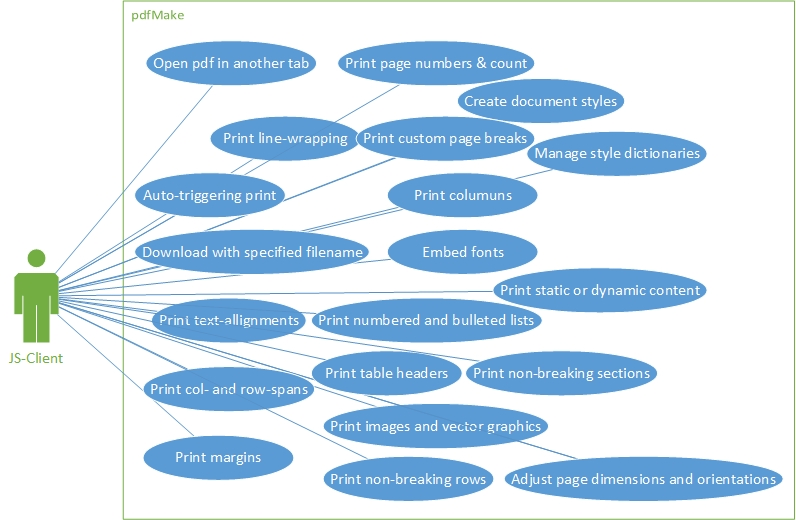
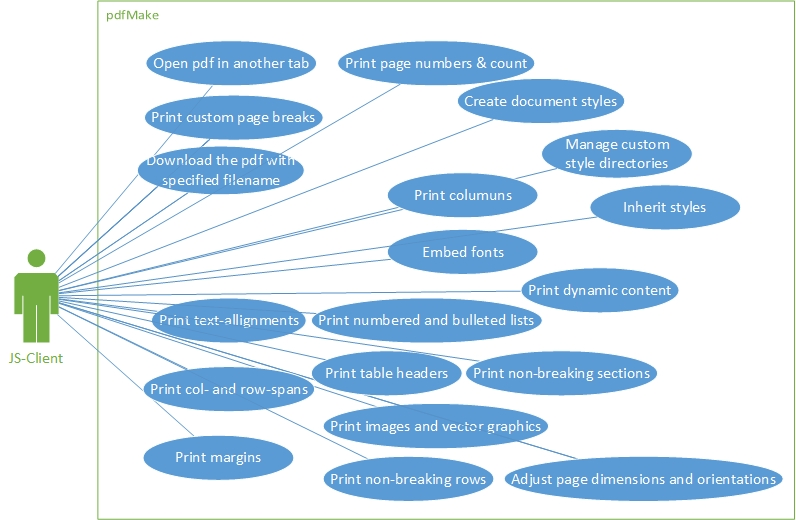
Completed first task, corrected use cases, smaller corrections

diff --git a/ESOF-Docs/secondassignment.md b/ESOF-Docs/secondassignment.md
@@ -1,22 +1,22 @@
-##2. Assignment: Requirements Elicitation##
+#2. Assignment: Requirements Elicitation#
 
-#a) Requirements: Introduction, Purpose/Scope, and Description#
-Requirement engineering (RE) is the process of studying user needs, which are at first mostly vaguely defined, and transforming them into a clear statement and understanding of a task, which must be fulfilled by the to be developed software, in order to fully satisfy the specific user need.
-The purpose of RE is basically to bridge the business and the software world & language and structuring the tasks to be done in the whole software development process.
+##a) Requirements: Introduction, Purpose/Scope, and Description##
+Requirement engineering (RE) is the process of studying user needs, which are at first mostly vaguely defined, and transforming them into a clear statement and understanding of a task, which must be fulfilled by the to be developed software, in order to fully satisfy the specific user need. So the purpose of RE is basically to bridge the business and the software world & language and to structure the tasks that have to be done during the development process. This is done by transforming the elicted business and user requirements in to specific system and software requirements.
 
+RE in open source projects differ in some ways from the classical software projects, in which a face to face communication between a client and the developers exists, since there is no specific client. Therefore we assume the original developers of pdfmake saw or had needs for a solution like pdfmake and "elicted" the requirements by theirself and still do. Further functionality requests and issues are posted in the Github 'issues' forum of the project, which can then be taken care of by any willing contributor. Through labels the requests then can be flagged as 'answered', 'won't fix' etc. to manage the requirements.
 
-#b) Specific Requirements and Features (Functional and Non-Functional requirements) #
+##b) Specific Requirements and Features (Functional and Non-Functional requirements) ##
 
-##Functional Requirements##
+###Functional Requirements###
 Functional requirement define what a sysytem is supposed to do like calculations, technical details, data manipulation and processing and other specific functionalities.
 
-When it comes to functional requirements, it's key that the system is able to do a number of functions related to created pdf file, such as:
+When it comes to functional requirements, it's key that the system is able to do a number of functions related to creating a pdf file, such as:
 * being able to open it in the browser in a new tab
-* print it and download it onto the user's PC.
-The system should create an html doc out of the user's input or out of a text file.
-It needs to allow a certain level of customisation, using user-defined styles.
+* print it and download it onto the user's PC
+* it should create an html doc out of the user's input or out of a text file
+* allow the user to use user-defined styles
 
-In terms of customisation, it needs to:  
+In terms of customization, it needs to:  
 * allow the printing of page numbers
 * allow the printing of custom page breaks
 * allow the printing of static/dynamic content
@@ -30,19 +30,21 @@ In terms of customisation, it needs to:
 * allow the management of document styles
 * allow adjustments to be made to the page's dimensions and orientation.
 
-##Non-Functional Requirements##
+###Non-Functional Requirements###
 Non-functional requirements define how the system is supposed to be, along with its qualities.
 
-In pdfmake the system should be client-sided in its implementation. The printing function should be auto-triggering.
-The user should be able to create PDFs using a simplified, object oriented language, which will be converted into html before it is printed.
-The project should be open source, and allow for many new features to be continuously implemented by various members.
-Finally, it should be easy for other developers to implement this system in their own projects.
+* the system should be client-sided in its implementation
+* the system should automatically take care of line wrapping (breaking lines when at the border of the document / table)
+* the printing function should be auto-triggering
+* the user should be able to create PDFs using a simplified, object oriented language, which will be converted into html before it is printed
+* the project should be open source, and allow for many new features to be continuously implemented by various members
+* it should be easy for other developers to implement this system in their own projects
 
-#c) Use Cases #
+##c) Use Cases ##
 
 ![Use Cases](https://github.com/joaopedrofump/pdfmake-1/blob/master/ESOF-Docs/Pdfmake_usecase.jpg)
 
-#d) Domain Model #
+##d) Domain Model ##
 
 ![Domain Model](https://github.com/joaopedrofump/pdfmake-1/blob/master/ESOF-Docs/Pdfmake_domainmodel.jpg)
 
@@ -54,10 +56,10 @@ In the domain model we defined 4 classes:
 * Printer
 * PDF
 
-The HTML document is the starting point, it all starts with an HTML web page. In the end, the purpose of the library is to make possible to print web pages directly from the browser making use of the functions of the library. Therefore, the HTML class has its attributes like paragraphs, tables, headers, divs, etc.
+The **HTML document** class is the starting point, it all starts with an HTML web page. In the end, the purpose of pdfmake is to enable printing web pages directly from the browser making use of the functions of pdfmake. Therefore, the HTML class has  attributes like paragraphs, tables, headers, divs, etc.
 
-The second class is the printer, the name we gave to define the JS library which provide functions to print HTML documents in PDF format. The attributes of the printer are all the functions at the core of the library which grabs the HTML parts, the styles defined and transform the HTML document in a PDF document. The printer can generate the PDF in three different ways: open it directly in the browser, send it to the physical printer and generate a file to be downloaded.
+The second class is the **Printer**, the name we gave to define the 'JS library' which provides those functions to print HTML documents in PDF format. The attributes of the printer are all the functions at the core of the library which grabs the HTML parts, the styles defined and transform the HTML document in a PDF document. The printer can generate the PDF in three different ways: open it directly in the browser, send it to the physical printer and generate a file to be downloaded.
 
-The third class is the STYLE class. The style is related to the printer in a sense that the printer uses a certain number of styles to generate the PDF from the HTML. For instance, we can relate a header with a specific style, a paragraph to another one. These styles are dictionaries that can map HTML elements to styles (a little bit like CSS does).
+The third class is the **Style** class. The style is related to the printer in a sense that the printer uses a certain number of styles to generate the PDF from the HTML. For instance, we can relate a header with a specific style, a paragraph to another one. These styles are dictionaries that can map HTML elements to styles (a little bit like CSS does).
 
-The last class is the PDF file. This class is the final result or the output of the whole system. It's related with the printer in a way that it is generated by it. The attributes of the class are all the attributes defined in the STYLE class and HTML class because in the end it comes from these two classes.
+The last class is the **PDF file**. Objects of this class the final result or the output of the whole system. It's related with the printer in a way that it is generated by it. The attributes of the class are all the attributes defined in the STYLE class and HTML class because in the end it comes from these two classes.
